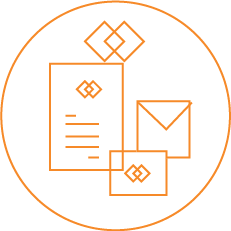
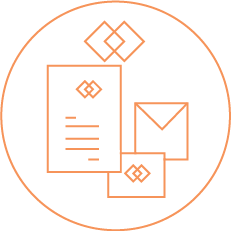
correcciones de color

diff --git a/fernandez_long/css/fernandez_long.css b/fernandez_long/css/fernandez_long.css
@@ -7,8 +7,8 @@ TRANSICION BOTON CONTACTAME*/
 
 
 :root {
-  --fucsia: #fc60de;
-  --naranja: #f68a29;
+  --fucsia: #f4989e;
+  --naranja: #f7955a;
 }
 
 /*font-family: 'Roboto', sans-serif;*/
